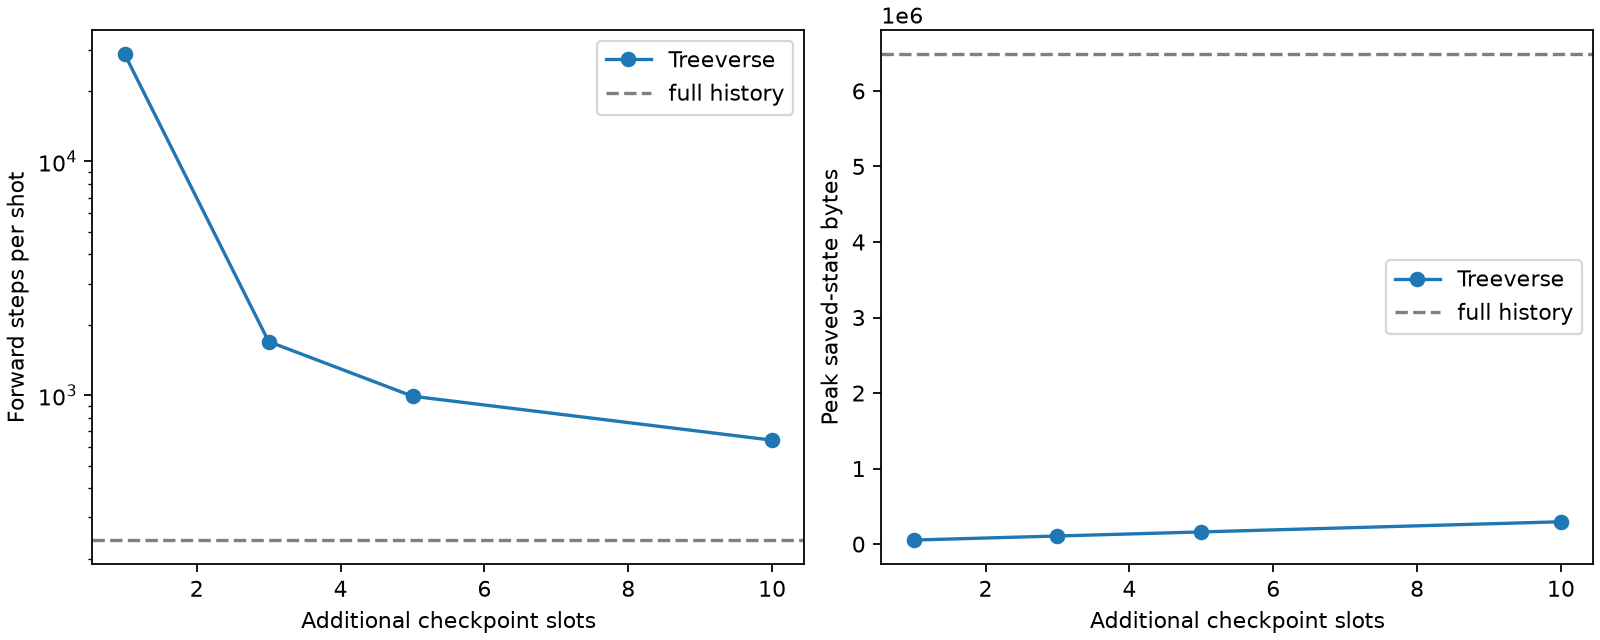
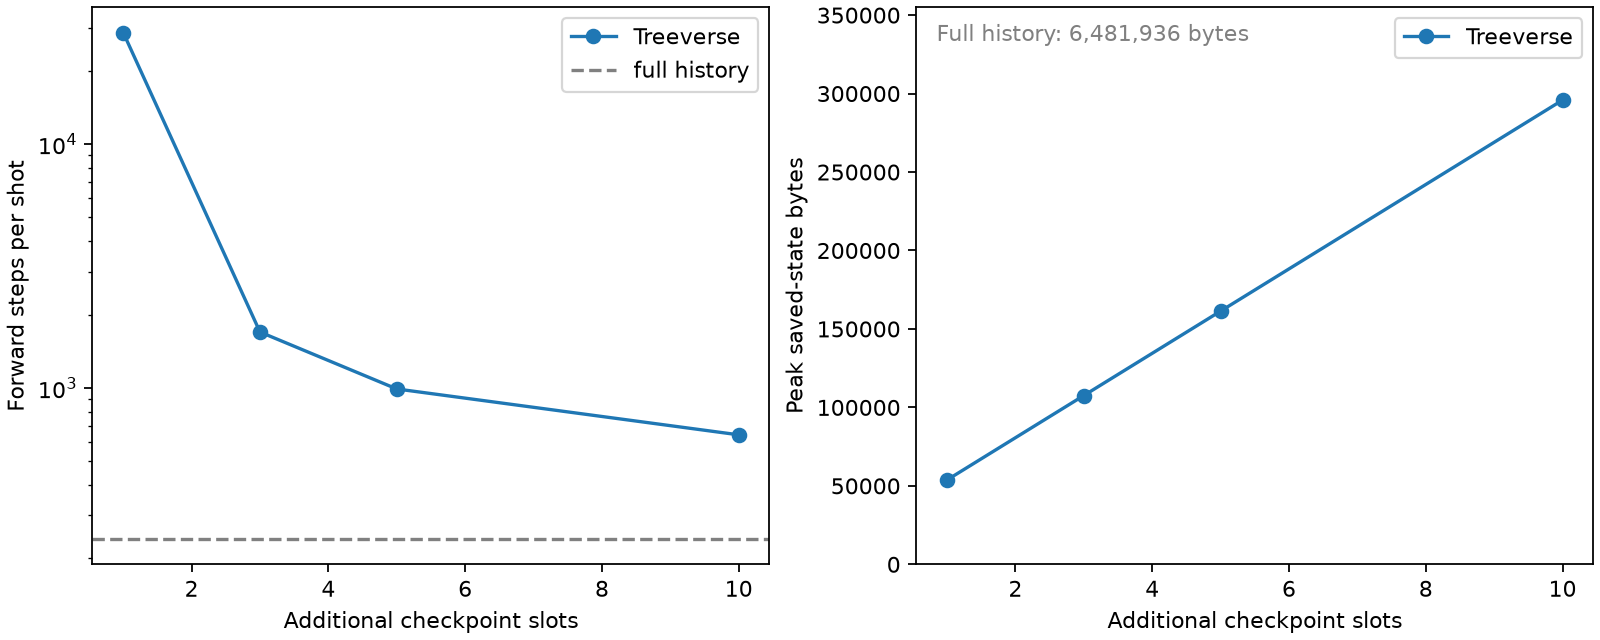
Correct Week 5 adjoint recording labels and checkpoint plot
Derive reverse recording steps from the actual capture schedule so intervals that do not divide the final step have matching steps and physical times. Test both full-history and Treeverse recordings with four steps and interval three. Keep the Treeverse storage curve readable while annotating the full-history baseline. Validated the targeted Rust integration test and regenerated the checkpoint audit plot.

diff --git a/week5/seismic/tests/adjoint_integration.rs b/week5/seismic/tests/adjoint_integration.rs
@@ -52,7 +52,7 @@ fn adjoint_command_reads_born_data_and_writes_image() {
             "--data",
             born_path.join("born_data.npy").to_str().unwrap(),
             "--every",
-            "1",
+            "3",
             "--out",
             adjoint_path.to_str().unwrap(),
         ])
@@ -88,6 +88,8 @@ fn adjoint_command_reads_born_data_and_writes_image() {
             "treeverse",
             "--checkpoints",
             "2",
+            "--every",
+            "3",
             "--out",
             checkpoint_path.to_str().unwrap(),
         ])
@@ -125,10 +127,11 @@ fn adjoint_command_reads_born_data_and_writes_image() {
     );
     let run: serde_json::Value =
         serde_json::from_str(&fs::read_to_string(adjoint_path.join("run.json")).unwrap()).unwrap();
-    assert_eq!(
-        run["recording"]["steps"],
-        serde_json::json!([4, 3, 2, 1, 0])
-    );
+    assert_eq!(run["recording"]["steps"], serde_json::json!([4, 3, 0]));
+    let checkpoint_run: serde_json::Value =
+        serde_json::from_str(&fs::read_to_string(checkpoint_path.join("run.json")).unwrap())
+            .unwrap();
+    assert_eq!(checkpoint_run["recording"], run["recording"]);
     for (step, time) in run["recording"]["steps"]
         .as_array()
         .unwrap()

diff --git a/week5/seismic/src/main.rs b/week5/seismic/src/main.rs
@@ -737,14 +737,17 @@ fn update_adjoint_recording_metadata(
         std::fs::File::open(&path).map_err(|error| format!("read run.json: {error}"))?,
     )
     .map_err(|error| format!("parse run.json: {error}"))?;
-    let recorded_steps = (0..frame_count)
-        .map(|frame| steps.saturating_sub(frame * every))
+    let recorded_steps = std::iter::once(steps)
+        .chain((0..steps).rev().filter(|step| step % every == 0))
         .collect::<Vec<_>>();
+    if recorded_steps.len() != frame_count {
+        return Err("adjoint recording frame count mismatch".into());
+    }
     run["recording"] = json!({
         "every": every,
         "steps": recorded_steps,
-        "times": (0..frame_count)
-            .map(|frame| steps.saturating_sub(frame * every) as f64*dt)
+        "times": recorded_steps.iter()
+            .map(|step| *step as f64*dt)
             .collect::<Vec<_>>(),
     });
     write_json(&path, &run)

diff --git a/week5/scripts/plot_checkpoint.py b/week5/scripts/plot_checkpoint.py
@@ -72,7 +72,9 @@ def plot_work(results):
     axes[0].set(xlabel="Additional checkpoint slots",ylabel="Forward steps per shot")
     axes[0].legend()
     axes[1].plot(budgets,saved_bytes,"o-",label="Treeverse")
-    axes[1].axhline(full["peak_saved_bytes"],color="gray",ls="--",label="full history")
+    axes[1].set_ylim(0,max(saved_bytes)*1.2)
+    axes[1].text(0.03,0.97,f"Full history: {full['peak_saved_bytes']:,} bytes",
+                 transform=axes[1].transAxes,va="top",color="gray")
     axes[1].set(xlabel="Additional checkpoint slots",ylabel="Peak saved-state bytes")
     axes[1].legend()
     fig.savefig(ART / "checkpoint-work.png",dpi=160)
